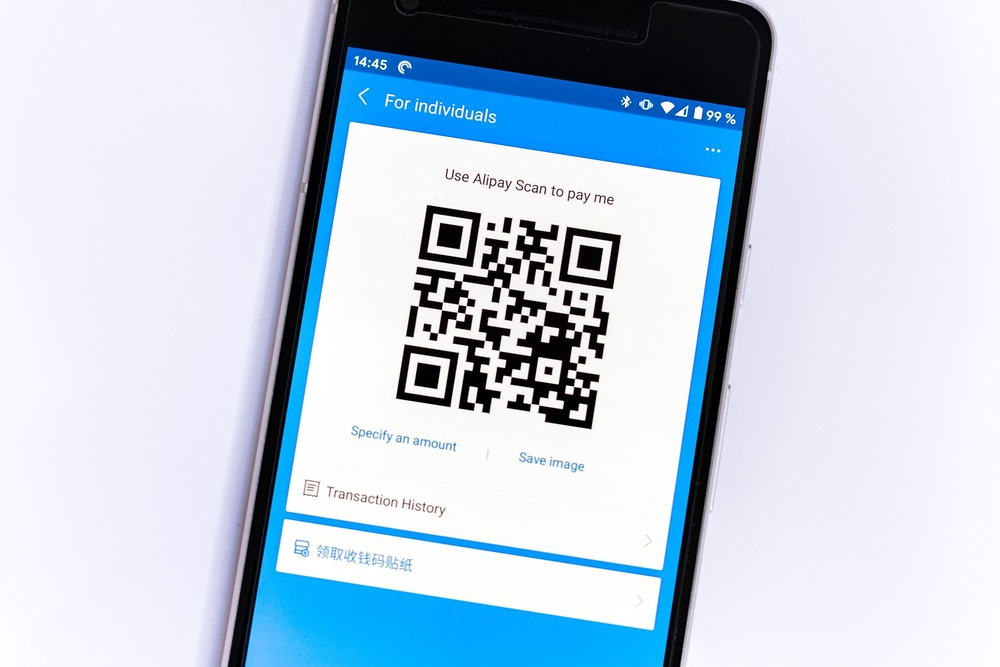
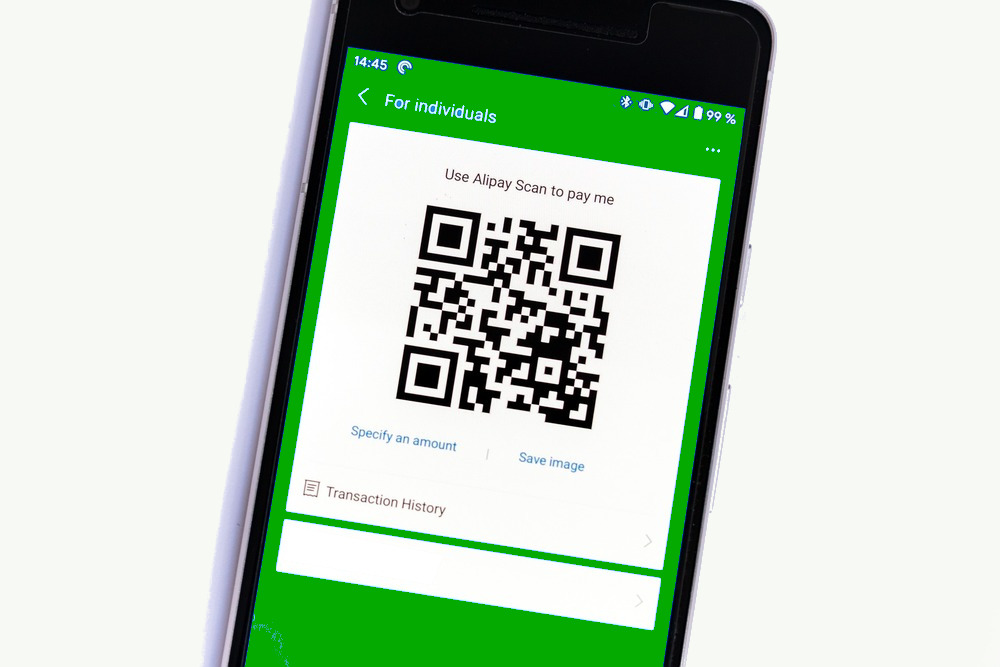
Update

Changed region(s): [[0.248, 0.06, 0.775, 1.0]]

diff --git a/src/views/Shop.vue b/src/views/Shop.vue
@@ -10,11 +10,14 @@
     </ion-header>
     -->
     <ion-content>
-      <div ref="tab3">
+      <div ref="tab3" class="swiping">
 
 
       <div v-if="hasEvent">
       <ion-card>
+      <ion-card-header>
+      <ion-card-title class="hdr">Du buchst jetzt ...</ion-card-title>
+      </ion-card-header>
       <ion-card-content>
         <Event 
           :date=getEvent.date 
@@ -102,11 +105,12 @@
       </ion-card-content>
       -->
       <ion-card-header>
-      <ion-card-subtitle>Hmmm.</ion-card-subtitle>
+      <ion-card-title class="hdr">Hmmm...</ion-card-title>
+      <ion-card-subtitle class="hdr">Scheinbar hast Du noch nicht das Richtige gefunden.</ion-card-subtitle>
       </ion-card-header>
 
       <ion-card-content>
-      <p>Scheinbar hast Du noch nicht das Richtige gefunden.</p>
+
       <!--
       <ion-img src="/assets/img/book/compass.jpg"></ion-img>
       -->
@@ -136,7 +140,7 @@
 
 <script lang="js">
 import { IonPage, IonButton, IonHeader, 
-  IonToolbar, IonTitle, IonCardHeader, IonCardSubtitle,
+  IonToolbar, IonTitle, IonCardHeader, IonCardTitle, IonCardSubtitle,
   IonContent,IonCard, IonCardContent,
   IonList, IonItem, IonLabel, 
   IonImg,
@@ -196,7 +200,7 @@ export default  defineComponent ({
       payInvoice : "Inv1234",
     }
   },
-  components: { Event, IonContent, IonPage,IonCard, IonCardContent, 
+  components: { Event, IonContent, IonPage,IonCard, IonCardContent, IonCardTitle,
   Ticket, OrderForm,  Paypal, 
   IonButton, IonIcon,
   //ScoreSheet, 
@@ -398,9 +402,12 @@ export default  defineComponent ({
 }
 
 
-ion-content {
-    --background: url('/assets/img/bg/backIcons_white.png');
-    --background-repeat: repeat;
+.hdr {
+  --color: --ka-text-color;  
+}
+
+.swiping {
+  min-height:90%;
 }
 
 

diff --git a/src/components/BookShow.vue b/src/components/BookShow.vue
@@ -2,7 +2,7 @@
 
     <div v-if="hasCodes">
     <ion-card-header>
-      <ion-card-subtitle>Deine Codes</ion-card-subtitle>
+      <ion-card-title  class="hdr">Deine Codes</ion-card-title>
     </ion-card-header>
 
     <ion-card-content>
@@ -47,10 +47,10 @@
     </div>
     <div v-else>
     <ion-card-header>
-      <ion-card-subtitle>Keine Codes!</ion-card-subtitle>
+      <ion-card-title class="hdr">Keine Codes!</ion-card-title>
+      <ion-card-subtitle class="hdr">Hast Du noch nichts gebucht?</ion-card-subtitle>
     </ion-card-header>
     <ion-card-content>
-    <p>Hast Du noch nichts gebucht?</p>
     <ion-img src="/assets/img/codes/qr1.jpg"></ion-img>
     <p>Bitte wähle eine Veranstaltung aus unseren 
     <ion-button @click="toMap()" class="ka-tab-btn">
@@ -78,7 +78,7 @@
 
 <script> 
 
-import { IonButton, IonLabel, IonIcon, IonPage } from '@ionic/vue';
+import { IonButton, IonLabel, IonIcon, IonPage, IonCardTitle, IonCardSubtitle } from '@ionic/vue';
 import { 
   albumsOutline,
  } from 'ionicons/icons';
@@ -122,7 +122,7 @@ DofD4XA4HA6Hw+FwOBwOh8PhcDj8VnsDg+O/lIZXxKIAAAAASUVORK5CYII="
 
 export default defineComponent({
   components: { QrShow,
-    IonLabel, IonButton, IonIcon
+    IonLabel, IonButton, IonIcon, IonCardTitle, IonCardSubtitle
     },
   data: function() {
     return {
@@ -193,6 +193,10 @@ img {
 
 h2 {
   padding-bottom: .2rem;
+}
+
+.hdr {
+  --color: --ka-text-color;  
 }
 
 </style>

diff --git a/src/views/Intro.vue b/src/views/Intro.vue
@@ -9,7 +9,7 @@
     </ion-header>
 
     <ion-content :fullscreen="true" >
-    <div ref="tab1">
+    <div ref="tab1" class="swiping">
     
      <ion-loading
     :is-open="loading"
@@ -23,7 +23,9 @@
     <LoginForm></LoginForm>
     -->
 
+    <!--
     <IntroSlides v-if="!loading" ></IntroSlides>
+    -->
 
     <Providers></Providers>
 
@@ -66,7 +68,9 @@ import router from "../router";
 export default  defineComponent ({
   name: 'Intro',
   components: { //LoginForm, 
-    IntroText, Providers, IonHeader, IonToolbar, IonTitle, IonContent, IonPage,IntroSlides,IonLoading
+    IntroText, Providers, IonHeader, IonToolbar, IonTitle, 
+    IonContent, IonPage, //IntroSlides,
+    IonLoading
   },
   data: function() {
     return {
@@ -205,10 +209,12 @@ ion-toolbar {
 
 }
 
+/* can overwrite here ... **
 ion-content {
     --background: url('/assets/img/bg/backIcons_white.png');
     --background-repeat: repeat;
 }
+*/
 
 /*
 .ion-page {
@@ -217,5 +223,8 @@ ion-content {
   margin-right:auto;
 }
 */
+.swiping {
+  min-height:90%;
+}
 
 </style>

diff --git a/src/views/Codes.vue b/src/views/Codes.vue
@@ -11,7 +11,7 @@
       -->
 
     <ion-content >
-    <div ref="tab4">
+    <div ref="tab4" class="swiping">
       <ion-card >
       <!--
       <ion-card-header>
@@ -53,7 +53,8 @@ export default  defineComponent({
   },
   async mounted(){
     const gest = this.$refs.tab4 //ref();
-    const r = router.currentRoute.value.path // value is important!
+    // current path:
+    //const r = router.currentRoute.value.path // value is important!
     //console.log("Current: ",r,"ref2:",gest)
     //setTimeout(function(){console.log(r.path)},2000)
     const gesture = createGesture({
@@ -68,11 +69,11 @@ export default  defineComponent({
 
 
 <style scoped>
-
-ion-content {
-    --background: url('/assets/img/bg/backIcons_white.png');
-    --background-repeat: repeat;
+.hdr {
+  --color: --ka-text-color;  
 }
-
+.swiping {
+  min-height:90%;
+}
 
 </style>

diff --git a/src/views/Map.vue b/src/views/Map.vue
@@ -19,7 +19,7 @@
 
     <!--ion-content :fullscreen="true"-->
     <ion-content >
-      <div ref="tab2">
+      <div ref="tab2" class="swiping">
 
 
       <ion-card >
@@ -103,10 +103,6 @@ export default defineComponent( {
   margin-bottom:0;
 }
 
-ion-content {
-    --background: url('/assets/img/bg/backIcons_white.png');
-    --background-repeat: repeat;
-}
 
 
 </style>

diff --git a/src/components/QrModal.vue b/src/components/QrModal.vue
@@ -29,6 +29,7 @@ export default defineComponent({
     provider: {type: String},
     count: {type: Number},
     info: {type: String, default: ""},
+    class: {type: String, default: "modal"}
   },
   data() {
     return {
@@ -62,6 +63,7 @@ export default defineComponent({
 }
 .qrmodal {
   width:100%;
+  --background: unset;
 }
 .qrimage {
   width:100%;

diff --git a/src/components/IntroText.vue b/src/components/IntroText.vue
@@ -16,6 +16,10 @@
           <a href="mailto:lerninseln@ok-lab-karlsruhe.de">EMail</a>
         </div>
         -->
+
+        <ion-img src="/assets/img/front/1.jpg"></ion-img>
+
+
         <div v-if="isMobile()">
           <!--
           <ion-button  @click="imprint()">

diff --git a/src/App.vue b/src/App.vue
@@ -59,4 +59,13 @@ umgedreht: 0px -3px 6px
   margin-right:auto;
 }
 
+/* global defs */
+ion-content {
+  /*
+    --background: url('/assets/img/bg/backIcons_white.png');
+    --background-repeat: repeat;
+    */
+    --background: #05aa00;
+}
+
 </style>
